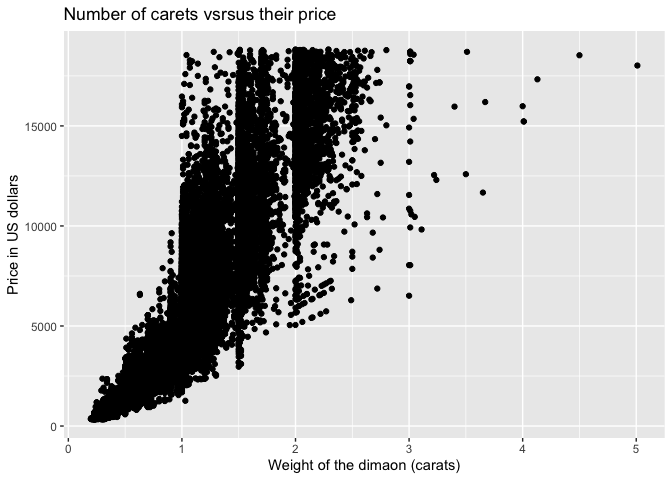
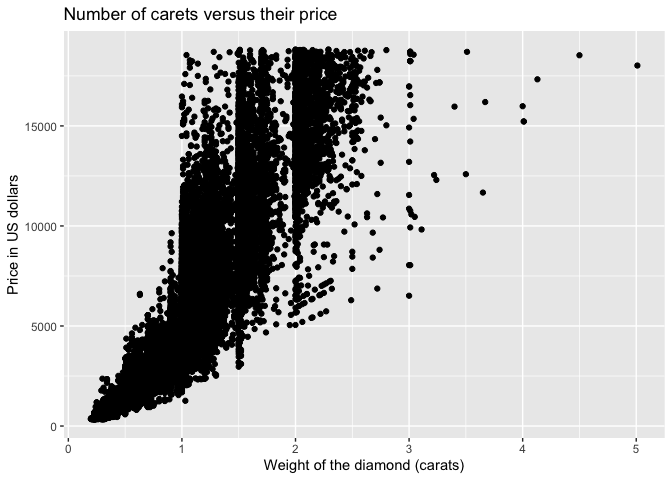
fix spelling

Changed region(s): [[0.375, 0.9375, 0.6875, 1.0], [0.3125, 0.0, 0.5, 0.0625]]

diff --git a/6_data_visualization/README.md b/6_data_visualization/README.md
@@ -2,25 +2,22 @@ Data visualization II
 ================
 Steven Moran & Alena Witzlack-Makarevich
 
-26 October, 2022
+21 February, 2023
 
--   <a href="#visualizing-data" id="toc-visualizing-data">Visualizing
-    data</a>
-    -   <a href="#recap" id="toc-recap">Recap</a>
-    -   <a href="#data" id="toc-data">Data</a>
-    -   <a href="#geometries" id="toc-geometries">Geometries</a>
-    -   <a href="#facets" id="toc-facets">Facets</a>
-    -   <a href="#statistics" id="toc-statistics">Statistics</a>
-    -   <a href="#coordinates" id="toc-coordinates">Coordinates</a>
-    -   <a href="#theme" id="toc-theme">Theme</a>
--   <a href="#visualizations" id="toc-visualizations">Visualizations</a>
-    -   <a href="#which-plots-to-use" id="toc-which-plots-to-use">Which plot(s)
-        to use?</a>
-    -   <a href="#putting-it-all-together-an-example"
-        id="toc-putting-it-all-together-an-example">Putting it all together: an
-        example</a>
--   <a href="#exercises" id="toc-exercises">Exercises</a>
--   <a href="#references" id="toc-references">References</a>
+- [Visualizing data](#visualizing-data)
+  - [Recap](#recap)
+  - [Data](#data)
+  - [Geometries](#geometries)
+  - [Facets](#facets)
+  - [Statistics](#statistics)
+  - [Coordinates](#coordinates)
+  - [Theme](#theme)
+- [Visualizations](#visualizations)
+  - [Which plot(s) to use?](#which-plots-to-use)
+  - [Putting it all together: an
+    example](#putting-it-all-together-an-example)
+- [Exercises](#exercises)
+- [References](#references)
 
 ------------------------------------------------------------------------
 
@@ -36,6 +33,7 @@ library(knitr)
 library(dslabs)
 library(ggthemes)
 library(ggrepel)
+library(maps)
 ```
 
 ------------------------------------------------------------------------
@@ -58,7 +56,7 @@ system](https://en.wikipedia.org/wiki/Coordinate_system).
 
 Here is a cheat sheet describing the process:
 
--   <https://github.com/rstudio/cheatsheets/blob/main/data-visualization-2.1.pdf>
+- <https://github.com/rstudio/cheatsheets/blob/main/data-visualization-2.1.pdf>
 
 ------------------------------------------------------------------------
 
@@ -70,16 +68,20 @@ for Data Analysis*](https://ggplot2-book.org/index.html).
 
 A simple plot with `ggplot()` needs minimally:
 
--   Data to visualize – a data frame or tibble!
--   Aesthetics – mappings from aesthetic attributes (e.g., color, shape,
-    size) to geometric objects (e.g., points, lines, bars)
--   Geometries – e.g., dots, lines, boxes
+- Data to visualize – a data frame or tibble!
+- Aesthetics – mappings from aesthetic attributes (e.g., color, shape,
+  size) to geometric objects (e.g., points, lines, bars)
+- Geometries – e.g., dots, lines, boxes
 
 These essential ingredients (bordered in red) for creating a plot with
 `ggplot()` are illustrated below in a visualization within the layered
 grammar of graphics (Wickham 2009).
 
-![Essentials.](../5_data_visualization/figures/essential_ingredients.png)
+<figure>
+<img src="../5_data_visualization/figures/essential_ingredients.png"
+alt="Essentials." />
+<figcaption aria-hidden="true">Essentials.</figcaption>
+</figure>
 
 But let’s go through each in detail – but from bottom up.
 
@@ -124,9 +126,9 @@ head(diamonds) %>% kable()
 
 Now one way forward is to ask:
 
--   Which kinds of visualizations can we produce?
--   Which kind of research questions can be answered on the basis of
-    this data set?
+- Which kinds of visualizations can we produce?
+- Which kind of research questions can be answered on the basis of this
+  data set?
 
 ## Geometries
 
@@ -136,9 +138,9 @@ are labeled like There are [several basic plot
 types](https://ggplot2-book.org/individual-geoms.html), e.g., but
 definitely not limited to:
 
--   geom_point() – produces a scatter plot
--   geom_line() – makes a line plot
--   geom_bar(stat = “identity”) – makes a bar chart
+- geom_point() – produces a scatter plot
+- geom_line() – makes a line plot
+- geom_bar(stat = “identity”) – makes a bar chart
 
 <!--
 Here is a more comprehensive list:
@@ -167,7 +169,10 @@ ggplot(diamonds, aes(x = carat, y = price)) +
 Now, each geom function has mandatory and optional aesthetics. This
 reference table is taken from Teutonico (2015):
 
-![Geoms and their aesthetics.](figures/geoms.png)
+<figure>
+<img src="figures/geoms.png" alt="Geoms and their aesthetics." />
+<figcaption aria-hidden="true">Geoms and their aesthetics.</figcaption>
+</figure>
 
 It is important to note that function names may change in programming
 languages – so always reference the latest version of the programming
@@ -238,7 +243,7 @@ ggplot(diamonds, aes(x=carat, y=price)) +
   geom_smooth()
 ```
 
-    ## `geom_smooth()` using method = 'gam' and formula 'y ~ s(x, bs = "cs")'
+    ## `geom_smooth()` using method = 'gam' and formula = 'y ~ s(x, bs = "cs")'
 
 ![](README_files/figure-gfm/unnamed-chunk-9-1.png)<!-- --> Geoms in
 `ggplot2` have sensible defaults. Above the gray area encompassing the
@@ -256,7 +261,7 @@ ggplot(diamonds, aes(x=carat, y=price, color=clarity)) +
   geom_smooth(se=FALSE)
 ```
 
-    ## `geom_smooth()` using method = 'gam' and formula 'y ~ s(x, bs = "cs")'
+    ## `geom_smooth()` using method = 'gam' and formula = 'y ~ s(x, bs = "cs")'
 
 ![](README_files/figure-gfm/unnamed-chunk-10-1.png)<!-- --> Sometimes
 the combinations of geoms and their aesthetics can make the picture more
@@ -269,7 +274,7 @@ ggplot(diamonds, aes(x=carat, y=price, color=clarity)) +
   geom_smooth(se=FALSE)
 ```
 
-    ## `geom_smooth()` using method = 'gam' and formula 'y ~ s(x, bs = "cs")'
+    ## `geom_smooth()` using method = 'gam' and formula = 'y ~ s(x, bs = "cs")'
 
 ![](README_files/figure-gfm/unnamed-chunk-11-1.png)<!-- -->
 
@@ -279,8 +284,8 @@ to annotate (aka label) them!
 ``` r
 ggplot(diamonds, aes(x = carat, y = price)) +
   geom_point() + 
-  ggtitle("Number of carets vsrsus their price") +
-  xlab("Weight of the dimaon (carats)") +
+  ggtitle("Number of carets versus their price") +
+  xlab("Weight of the diamond (carats)") +
   ylab("Price in US dollars")
 ```
 
@@ -332,7 +337,7 @@ ggplot(diamonds, aes(x=carat, y=price)) +
   geom_smooth()
 ```
 
-    ## `geom_smooth()` using method = 'gam' and formula 'y ~ s(x, bs = "cs")'
+    ## `geom_smooth()` using method = 'gam' and formula = 'y ~ s(x, bs = "cs")'
 
 ![](README_files/figure-gfm/unnamed-chunk-15-1.png)<!-- -->
 
@@ -342,22 +347,22 @@ ggplot(diamonds, aes(x=carat, y=price)) +
 `ggplot2` [have two purposes](https://ggplot2-book.org/coord.html)
 (Wickham 2016):
 
--   “Combine the two position aesthetics to produce a 2d position on the
-    plot.”
--   “In coordination with the faceter, coordinate systems draw axes and
-    panel backgrounds.”
+- “Combine the two position aesthetics to produce a 2d position on the
+  plot.”
+- “In coordination with the faceter, coordinate systems draw axes and
+  panel backgrounds.”
 
 Coordinate systems in `ggplot2` come in two types:
 
--   Linear – they preserve the shape of geoms
--   Non-linear – they can change their shapes
+- Linear – they preserve the shape of geoms
+- Non-linear – they can change their shapes
 
 These are advanced techniques and when you think you need them, you
 should probably study them in detail. There’s a free online book for
 that (Wickham 2016):
 
--   <https://ggplot2-book.org/>
--   <https://ggplot2-book.org/coord.html>
+- <https://ggplot2-book.org/>
+- <https://ggplot2-book.org/coord.html>
 
 But note they also include functions for things like [map
 projection](https://en.wikipedia.org/wiki/Map_projection). Note also
@@ -367,12 +372,12 @@ libraries to do the same things.
 Remember to search for it and you’ll find lots of results (as of writing
 79 million plus hits):
 
--   <https://www.google.com/search?client=safari&rls=en&q=how+to+make+geographic+maps+in+R&ie=UTF-8&oe=UTF-8>
+- <https://www.google.com/search?client=safari&rls=en&q=how+to+make+geographic+maps+in+R&ie=UTF-8&oe=UTF-8>
 
 Here’s a simple example that plots the languages of the world on a
 simple map.
 
-Let’s get the data from the \[Glottolog\].
+Let’s get the data from the [Glottolog](https://glottolog.org).
 
 ``` r
 df <- read_csv(url('https://cdstar.eva.mpg.de/bitstreams/EAEA0-F8BB-0AB6-96FA-0/languages_and_dialects_geo.csv'))
@@ -421,7 +426,7 @@ ggplot(data=df, aes(x=longitude,y=latitude)) +
   geom_point()
 ```
 
-    ## Warning: Removed 323 rows containing missing values (geom_point).
+    ## Warning: Removed 323 rows containing missing values (`geom_point()`).
 
 ![](README_files/figure-gfm/unnamed-chunk-20-1.png)<!-- --> Want to add
 some color? You need a variable for that.
@@ -432,7 +437,7 @@ ggplot(data=df, aes(x=longitude,y=latitude, color=macroarea)) +
   geom_point()
 ```
 
-    ## Warning: Removed 323 rows containing missing values (geom_point).
+    ## Warning: Removed 323 rows containing missing values (`geom_point()`).
 
 ![](README_files/figure-gfm/unnamed-chunk-21-1.png)<!-- -->
 
@@ -464,7 +469,7 @@ ggplot(data=atheletes, aes(x = gender, y = weight)) +
   geom_boxplot()
 ```
 
-    ## Warning: Removed 378 rows containing non-finite values (stat_boxplot).
+    ## Warning: Removed 378 rows containing non-finite values (`stat_boxplot()`).
 
 ![](README_files/figure-gfm/unnamed-chunk-22-1.png)<!-- -->
 
@@ -476,7 +481,7 @@ ggplot(data=atheletes, aes(x = gender, y = weight)) +
   theme_minimal()
 ```
 
-    ## Warning: Removed 378 rows containing non-finite values (stat_boxplot).
+    ## Warning: Removed 378 rows containing non-finite values (`stat_boxplot()`).
 
 ![](README_files/figure-gfm/unnamed-chunk-23-1.png)<!-- -->
 
@@ -486,7 +491,7 @@ ggplot(data=atheletes, aes(x = gender, y = weight)) +
   theme_dark()
 ```
 
-    ## Warning: Removed 378 rows containing non-finite values (stat_boxplot).
+    ## Warning: Removed 378 rows containing non-finite values (`stat_boxplot()`).
 
 ![](README_files/figure-gfm/unnamed-chunk-24-1.png)<!-- -->
 
@@ -496,7 +501,7 @@ ggplot(data=atheletes, aes(x = gender, y = weight)) +
   theme_classic()
 ```
 
-    ## Warning: Removed 378 rows containing non-finite values (stat_boxplot).
+    ## Warning: Removed 378 rows containing non-finite values (`stat_boxplot()`).
 
 ![](README_files/figure-gfm/unnamed-chunk-25-1.png)<!-- -->
 
@@ -507,7 +512,7 @@ ggplot(data=atheletes, aes(x = gender, y = weight)) +
   theme_tufte(ticks = FALSE)
 ```
 
-    ## Warning: Removed 378 rows containing non-finite values (stat_boxplot).
+    ## Warning: Removed 378 rows containing non-finite values (`stat_boxplot()`).
 
 ![](README_files/figure-gfm/unnamed-chunk-26-1.png)<!-- -->
 
@@ -530,7 +535,7 @@ ggplot(atheletes, aes(x=weight, fill=gender)) +
 
     ## `stat_bin()` using `bins = 30`. Pick better value with `binwidth`.
 
-    ## Warning: Removed 378 rows containing non-finite values (stat_bin).
+    ## Warning: Removed 378 rows containing non-finite values (`stat_bin()`).
 
 ![](README_files/figure-gfm/unnamed-chunk-27-1.png)<!-- -->
 
@@ -542,7 +547,7 @@ ggplot(atheletes, aes(x=weight)) +
 
     ## `stat_bin()` using `bins = 30`. Pick better value with `binwidth`.
 
-    ## Warning: Removed 378 rows containing non-finite values (stat_bin).
+    ## Warning: Removed 378 rows containing non-finite values (`stat_bin()`).
 
 ![](README_files/figure-gfm/unnamed-chunk-28-1.png)<!-- -->
 
@@ -580,7 +585,7 @@ tree](https://en.wikipedia.org/wiki/Decision_tree) so that you can
 decide what kind of visualization best fits your data and which caveats
 you should avoid when creating those visualizations:
 
--   <https://www.data-to-viz.com>
+- <https://www.data-to-viz.com>
 
 First you need to know your data type, e.g., are you working with
 numeric or categorical data? Then ask how many variables you are working
@@ -592,12 +597,12 @@ variable, in what relation do they stand to each other? Is there order?
 
 Note also the caveats!
 
--   <https://www.data-to-viz.com/caveats.html>
+- <https://www.data-to-viz.com/caveats.html>
 
 Remember, you want your visualizations to tell a story. And there are a
 lot of visualization graphics out there!
 
--   <https://www.data-to-viz.com/#story>
+- <https://www.data-to-viz.com/#story>
 
 ## Putting it all together: an example
 
@@ -650,12 +655,12 @@ str(murders)
 
 The data set contains variables for:
 
--   Character vector for US states
--   Character vector for abbreviations of each US state
--   The region in which the state (four categorical values including:
-    Northeast, South, North Central, and West)
--   Numerical values for the US state’s population
--   Numerical values for the total number of gun murders in each state
+- Character vector for US states
+- Character vector for abbreviations of each US state
+- The region in which the state (four categorical values including:
+  Northeast, South, North Central, and West)
+- Numerical values for the US state’s population
+- Numerical values for the total number of gun murders in each state
 
 The data manipulation. Here we calculate the [r correlation
 coefficient](https://en.wikipedia.org/wiki/Correlation_coefficient).
